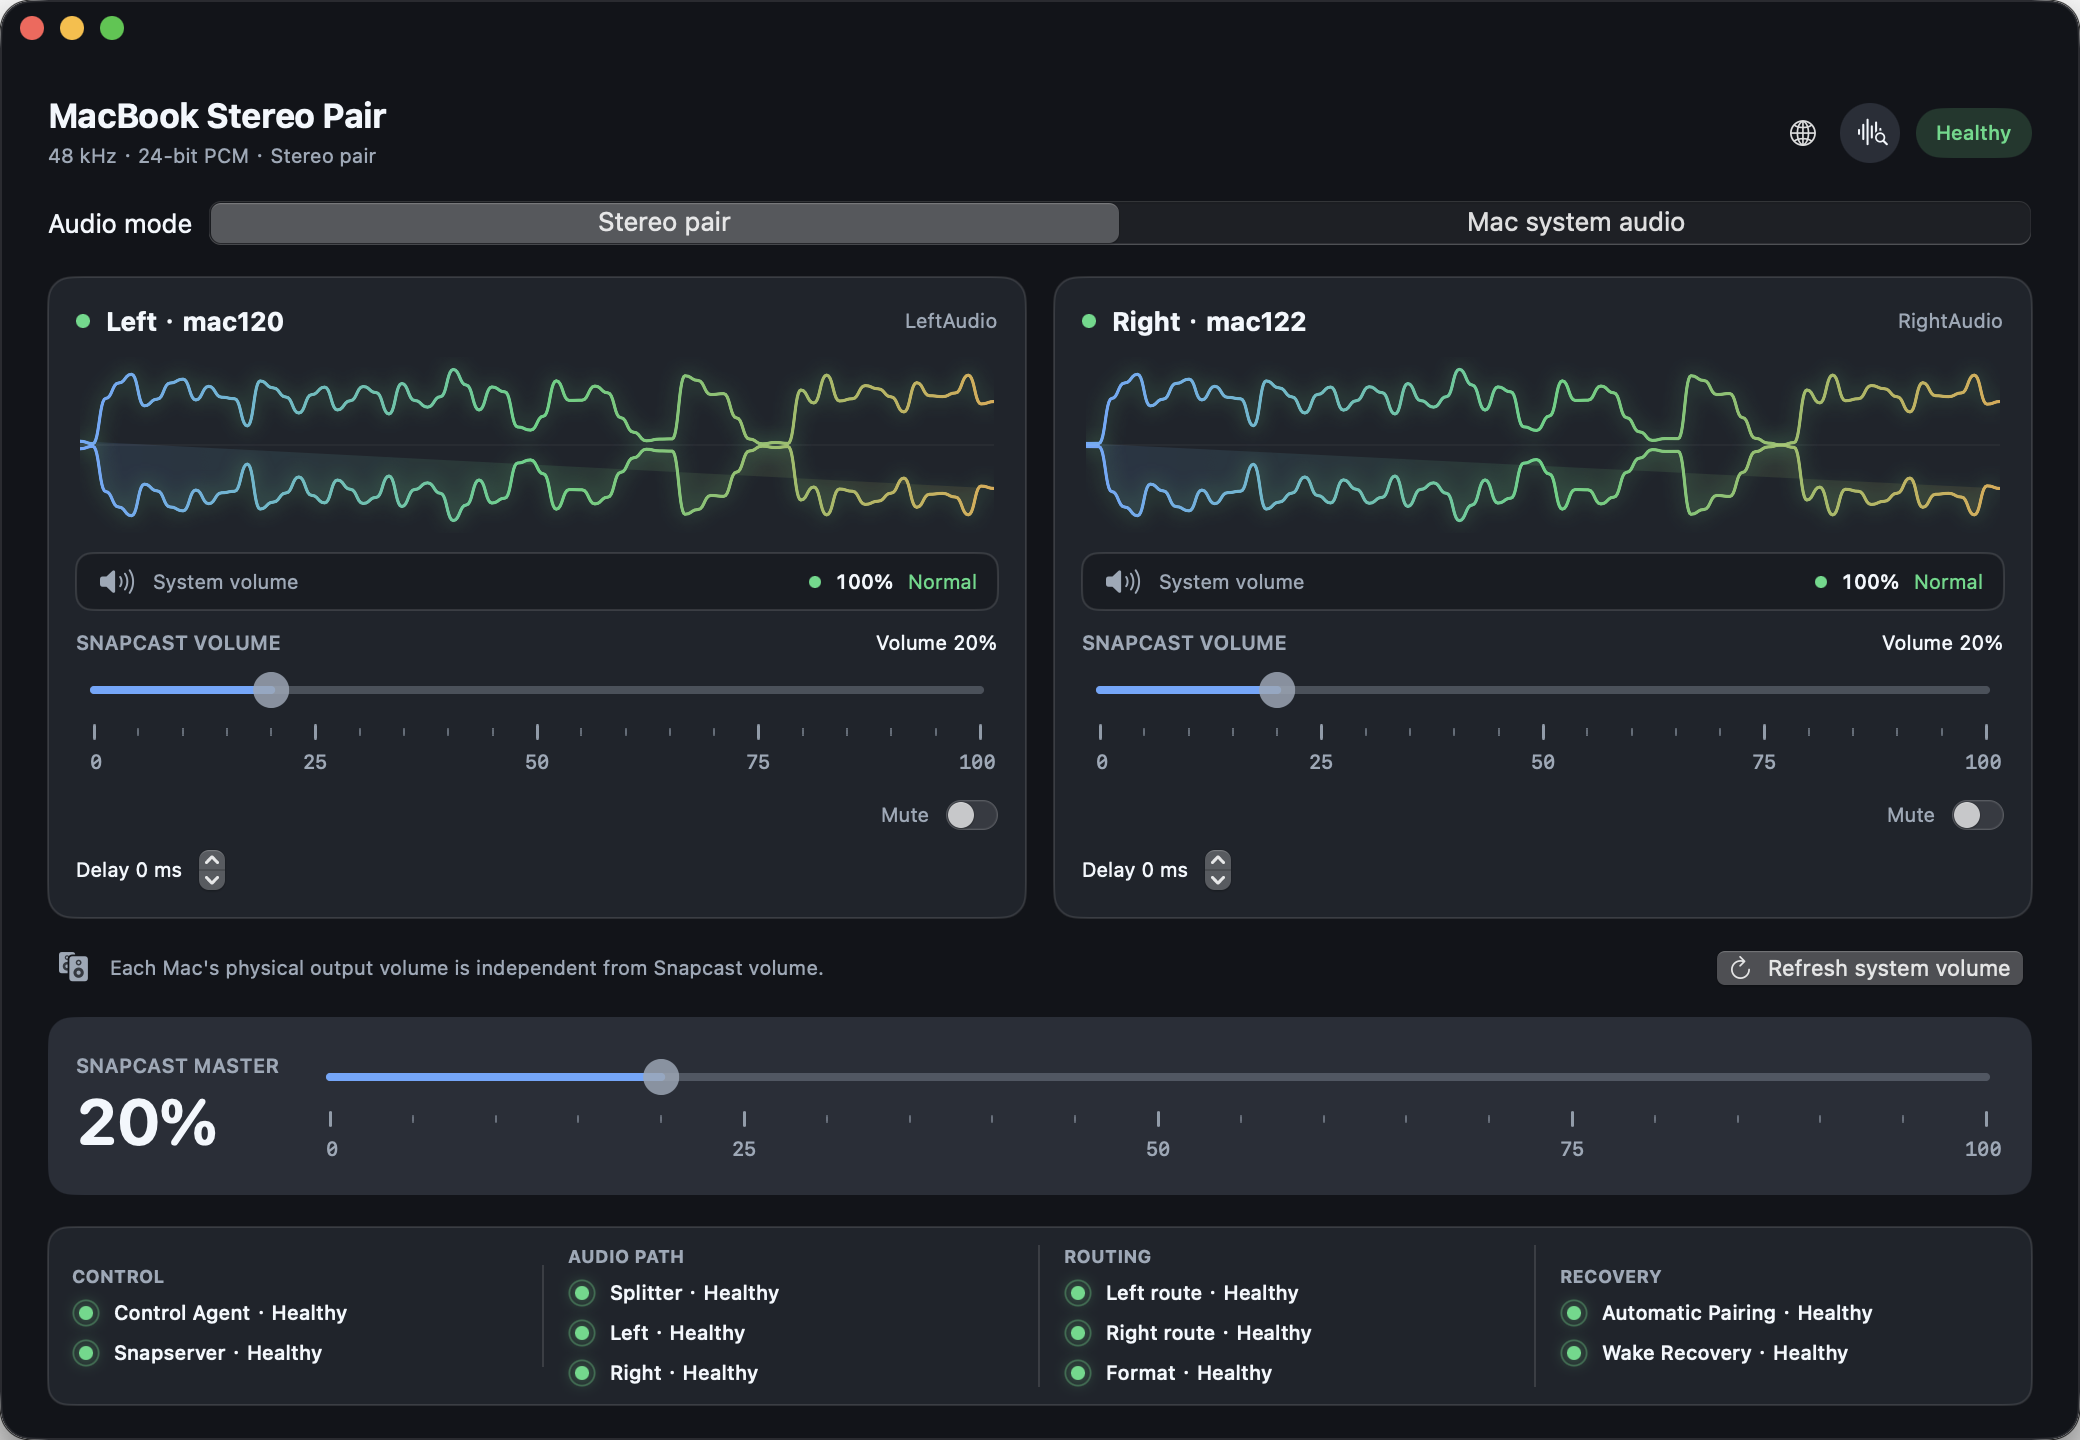
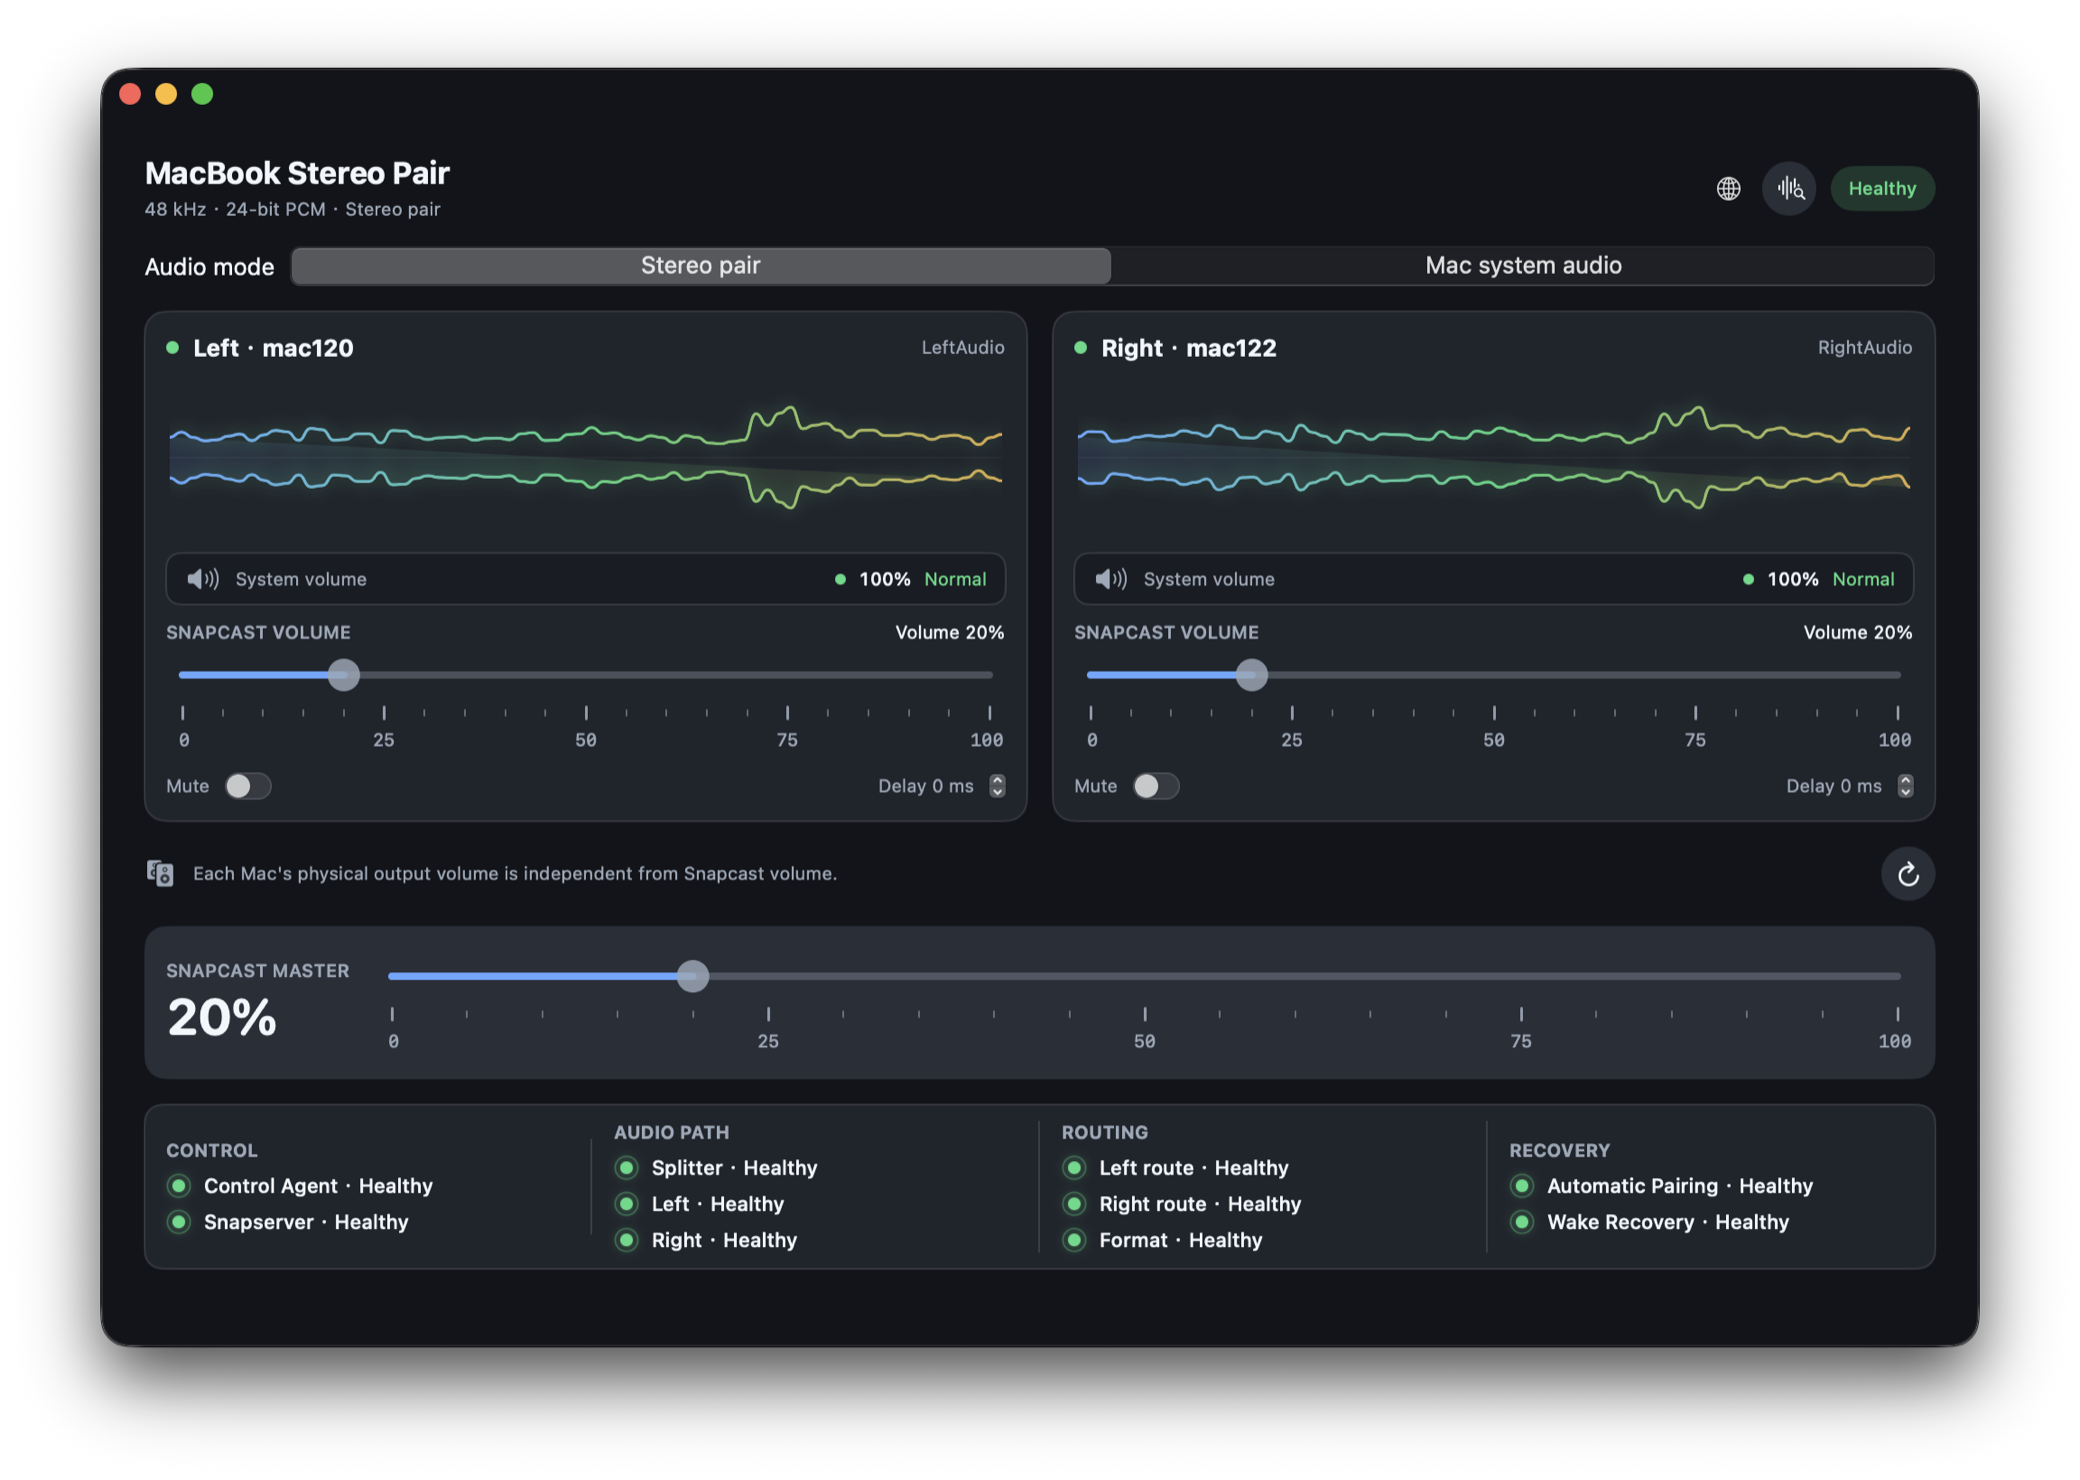
feat: refine native console layout

diff --git a/native/Sources/MacStereoPair/ConsoleView.swift b/native/Sources/MacStereoPair/ConsoleView.swift
@@ -32,7 +32,7 @@ struct ConsoleView: View {
     }
 
     private var consoleContent: some View {
-        VStack(spacing: 16) {
+        VStack(spacing: 14) {
             HStack(alignment: .center, spacing: 16) {
                 VStack(alignment: .leading, spacing: 3) {
                     Text(verbatim: language.text("app.title")).font(.title2.bold())
@@ -206,7 +206,7 @@ private struct ChannelStrip: View {
     }
 
     var body: some View {
-        VStack(alignment: .leading, spacing: 10) {
+        VStack(alignment: .leading, spacing: 9) {
             HStack {
                 Circle().fill(channel?.connected == true ? Theme.green : Theme.red).frame(width: 7, height: 7)
                     .accessibilityHidden(true)
@@ -251,8 +251,7 @@ private struct ChannelStrip: View {
                     await model.setVolume(channel, percent: percent)
                 }
             )
-            HStack {
-                Spacer()
+            HStack(spacing: 12) {
                 Toggle(language.text("mute.label"), isOn: Binding(
                     get: { channel?.muted ?? false },
                     set: { value in
@@ -262,22 +261,23 @@ private struct ChannelStrip: View {
                 .toggleStyle(.switch)
                 .controlSize(.mini)
                 .accessibilityLabel(language.format("accessibility.muteFormat", title))
+                Spacer()
+                Stepper(
+                    language.format("latency.labelFormat", channel?.latencyMs ?? 0),
+                    value: Binding(
+                        get: { channel?.latencyMs ?? 0 },
+                        set: { value in
+                            if let channel { Task { await model.setLatency(channel, milliseconds: value) } }
+                        }
+                    ),
+                    in: 0...500
+                )
+                .controlSize(.mini)
+                .accessibilityLabel(language.format("accessibility.latencyFormat", title))
             }
             .font(.caption).foregroundStyle(Theme.muted)
-            Stepper(
-                language.format("latency.labelFormat", channel?.latencyMs ?? 0),
-                value: Binding(
-                    get: { channel?.latencyMs ?? 0 },
-                    set: { value in
-                        if let channel { Task { await model.setLatency(channel, milliseconds: value) } }
-                    }
-                ),
-                in: 0...500
-            )
-            .font(.caption)
-            .accessibilityLabel(language.format("accessibility.latencyFormat", title))
         }
-        .padding(14)
+        .padding(12)
         .background(Theme.surface)
         .clipShape(RoundedRectangle(cornerRadius: 12))
         .overlay(RoundedRectangle(cornerRadius: 12).stroke(Theme.separator))
@@ -362,17 +362,23 @@ private struct HardwareVolumeLegend: View {
             Button {
                 Task { await model.refreshHardwareVolumes() }
             } label: {
-                Label(
-                    language.text("systemVolume.refresh"),
-                    systemImage: "arrow.clockwise"
-                )
+                ZStack {
+                    Circle().fill(Theme.raised)
+                    if model.isRefreshingHardwareVolume {
+                        ProgressView()
+                            .controlSize(.mini)
+                    } else {
+                        Image(systemName: "arrow.clockwise")
+                            .font(.system(size: 13, weight: .semibold))
+                    }
+                }
+                .frame(width: 30, height: 30)
             }
-            .buttonStyle(.bordered)
-            .controlSize(.small)
+            .buttonStyle(.plain)
             .disabled(model.isRefreshingHardwareVolume)
             .accessibilityLabel(language.text("systemVolume.refresh"))
+            .help(language.text("systemVolume.refresh"))
         }
-        .padding(.horizontal, 4)
     }
 }
 
@@ -403,13 +409,13 @@ private struct VolumeSliderControl: View {
                     slider
                 }
             case .prominent:
-                HStack(spacing: 16) {
+                HStack(spacing: 14) {
                     VStack(alignment: .leading, spacing: 2) {
                         Text(verbatim: label.uppercased())
                             .font(.caption2.bold())
                             .foregroundStyle(Theme.muted)
                         Text(verbatim: formatValue(currentValue))
-                            .font(.system(size: 32, weight: .bold, design: .rounded))
+                            .font(.system(size: 28, weight: .bold, design: .rounded))
                             .monospacedDigit()
                     }
                     slider
@@ -718,7 +724,7 @@ private struct MasterControl: View {
                 await model.setMaster(percent)
             }
         )
-        .padding(14)
+        .padding(12)
         .background(Theme.raised)
         .clipShape(RoundedRectangle(cornerRadius: 12))
     }

diff --git a/native/Sources/MacStereoPair/StatusBus.swift b/native/Sources/MacStereoPair/StatusBus.swift
@@ -12,7 +12,7 @@ struct StatusBus: View {
             ForEach(Array(allZones.enumerated()), id: \.element.id) { index, zone in
                 VStack(alignment: .leading, spacing: 6) {
                     Text(verbatim: zone.title)
-                        .font(.system(size: 9, weight: .bold))
+                        .font(.system(size: 10, weight: .bold))
                         .foregroundStyle(Theme.muted)
                     ForEach(zone.rows) { row in
                         ServiceLED(

diff --git a/native/Tests/MacStereoPairTests/WindowPlacementPolicyTests.swift b/native/Tests/MacStereoPairTests/WindowPlacementPolicyTests.swift
@@ -5,7 +5,7 @@ import XCTest
 final class WindowPlacementPolicyTests: XCTestCase {
     func testConsoleCannotResizeBelowUnclippedViewport() {
         XCTAssertEqual(MainWindowMetrics.minimumSize.width, 1040)
-        XCTAssertEqual(MainWindowMetrics.minimumSize.height, 720)
+        XCTAssertEqual(MainWindowMetrics.minimumSize.height, 680)
     }
 
     func testWindowRequiresCenteringWhenSavedFrameIsOffscreen() {

diff --git a/native/Sources/MacStereoPair/ServiceLED.swift b/native/Sources/MacStereoPair/ServiceLED.swift
@@ -75,7 +75,7 @@ struct ServiceLED: View {
             }
             .accessibilityHidden(true)
             Text(verbatim: "\(label) · \(statusText)")
-                .font(.system(size: 10, weight: .medium))
+                .font(.system(size: 11, weight: .medium))
                 .lineLimit(1)
         }
         .accessibilityElement(children: .ignore)

diff --git a/native/Sources/MacStereoPair/WindowConfiguration.swift b/native/Sources/MacStereoPair/WindowConfiguration.swift
@@ -2,7 +2,7 @@ import AppKit
 import SwiftUI
 
 enum MainWindowMetrics {
-    static let minimumSize = NSSize(width: 1040, height: 720)
+    static let minimumSize = NSSize(width: 1040, height: 680)
     static let defaultSize = minimumSize
     static let maximumSize = NSSize(width: 1240, height: 860)
     static let contentMaxWidth: CGFloat = 1120

diff --git a/CHANGELOG.md b/CHANGELOG.md
@@ -8,6 +8,9 @@
 - Add a responsive, bounded console window, single-instance protection, direct
   volume-slider feedback with 5% reference ticks, and separate read-only
   physical system-volume indicators for both Macs.
+- Tighten the console dashboard by grouping mute and delay controls, reducing
+  secondary card spacing, unifying the system-volume refresh control, improving
+  status legibility, and lowering the no-scroll minimum height to 1040 × 680.
 - Make Snapcast volume sliders track continuously at pointer resolution while
   serializing throttled audio previews, coalescing click updates, and committing
   the final rounded percentage after release. Periodic status and waveform

diff --git a/docs/native-console.md b/docs/native-console.md
@@ -65,7 +65,7 @@ The main window provides:
   allowlisted service restarts.
 
 The main console does not use a scrolling viewport. Its minimum and default
-content size is 1040 × 720, so every waveform, volume, master, and status card
+content size is 1040 × 680, so every waveform, volume, master, and status card
 remains visible; the maximum size is 1240 × 860. Content is capped at 1120
 points and centered inside larger windows, so cards do not stretch without
 limit. Saved window positions that fall outside the available displays are
